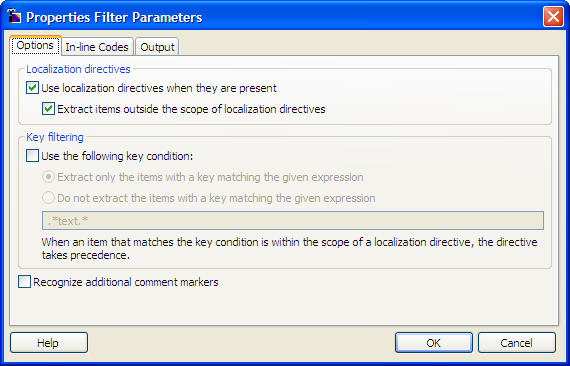
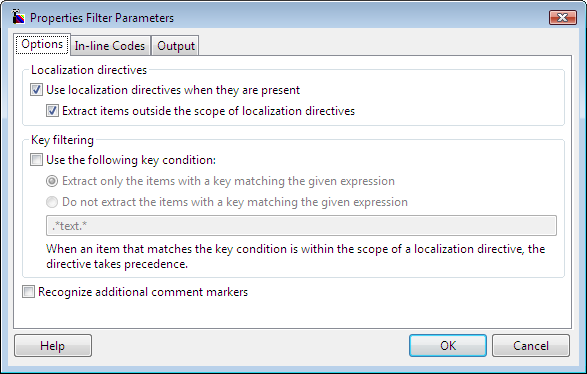
Updated dev guide and website pages/images.
git-svn-id: https://okapi.googlecode.com/svn/trunk@1249 0cd2bb99-014b-0410-b875-5d0485b745ed

Changed region(s): [[0.0, 0.0, 1.0, 1.0]]

diff --git a/website/devguide/filters.html b/website/devguide/filters.html
@@ -125,10 +125,51 @@ START_GROUP</code> event. It is associated with a <code>
 <a href="../javadoc/net/sf/okapi/common/resource/Ending.html">Ending</a></code> 
 resource.</p>
 <h3>DOCUMENT_PART</h3>
-<p>TODO</p>
+<p>The <code>DOCUMENT_PART</code> event may be sent by a filter to carry parts 
+of the original document that do not contain directly translatable text. It is 
+associated with a <code>
+<a href="../javadoc/net/sf/okapi/common/resource/DocumentPart.html">DocumentPart</a></code> 
+resource. Note that a <code>
+<a href="../javadoc/net/sf/okapi/common/resource/DocumentPart.html">DocumentPart</a></code> 
+may have read-only or modifiable properties, and may have references to previous 
+events that have translatable text or other read-only or modifiable properties. 
+All translatable text is always passed through using the <code>TEXT_UNIT</code> 
+event.</p>
 <h3>TEXT_UNIT</h3>
-<p>TODO</p>
-<p>A text unit can have </p>
+<p>The <code>TEXT_UNIT</code> event may be sent by a filter to carry parts of 
+the original document that has extractable text. Note that a <code>
+<a href="../javadoc/net/sf/okapi/common/resource/TextUnit.html">TextUnit</a></code> 
+may have read-only or modifiable properties, and may have references to previous 
+events that have translatable text or other read-only or modifiable properties.</p>
+<p>A <a href="../javadoc/net/sf/okapi/common/resource/TextUnit.html"><code>
+TextUnit</code></a> resource provides various information related to the 
+extracted text:</p>
+<ul>
+	<li><code>
+	<a href="../javadoc/net/sf/okapi/common/resource/TextUnit.html#getName()">
+	getName()</a></code> gives the original identified the resource, for example 
+	the key of entry in a Java properties file.</li>
+	<li><code>
+	<a href="../javadoc/net/sf/okapi/common/resource/TextUnit.html#getId()">
+	getId()</a></code> gives the unique extraction-ID for this text unit. This 
+	value is filter specific and does not represent any information related to 
+	the input document. Some filters may return the same values for <code>
+	<a href="../javadoc/net/sf/okapi/common/resource/TextUnit.html#getId()">
+	getId()</a></code> and <code>
+	<a href="../javadoc/net/sf/okapi/common/resource/TextUnit.html#getName()">
+	getName()</a></code>, but both object represent different things.</li>
+	<li><code>
+	<a href="../javadoc/net/sf/okapi/common/resource/TextUnit.html#isTranslatable()">
+	isTranslatable()</a></code> indicates if this text unit is translatable.</li>
+	<li><code>
+	<a href="../javadoc/net/sf/okapi/common/resource/TextUnit.html#getMimeType()">
+	getMimeType()</a></code> gives the type of content the text unit contains.</li>
+	<li><code>
+	<a href="../javadoc/net/sf/okapi/common/resource/TextUnit.html#preserveWhitespaces()">
+	preserveWhitespaces()</a></code> indicates if the white spaces inside the 
+	content of the text unit must be preserved (for example, as the content of a 
+	HTML <code>&lt;pre&gt;</code> element).</li>
+</ul>
 
 <h2><a name="Languages"></a>Languages</h2>
 <p>The documents a filter processes can be monolingual or multilingual. The 

diff --git a/website/screenshots.html b/website/screenshots.html
@@ -28,10 +28,16 @@
 	</tr>
 </table>
 <h2><b><a name="rainbow"></a></b> Rainbow</h2>
-<p align="center"><b>Rainbow</b> - The main windows of Rainbow running on 
-Windows XP:</p>
+<p align="center"><b>Rainbow</b> - The main window of Rainbow, with the Input 
+List 1 tab:</p>
 <p align="center">
 <img border="0" src="images/rainbow1.png" width="632" height="461"></p>
+<p align="center">
+&nbsp;</p>
+<p align="center">
+<b>Rainbow</b> - The Other Settings tab:</p>
+<p align="center">
+<img border="0" src="images/rainbow3.png" width="682" height="487"></p>
 <p align="center">
 &nbsp;</p>
 <p align="center">
@@ -63,7 +69,7 @@ the RegEx filter component:</p>
 <b>Properties Filter</b> - The editor to modify the parameters for the 
 Properties filter component:</p>
 <p align="center">
-<img border="0" src="images/properties1.png" width="570" height="366"></p>
+<img border="0" src="images/properties1.png" width="587" height="374"></p>
 <p align="center">
 &nbsp;</p>
 
